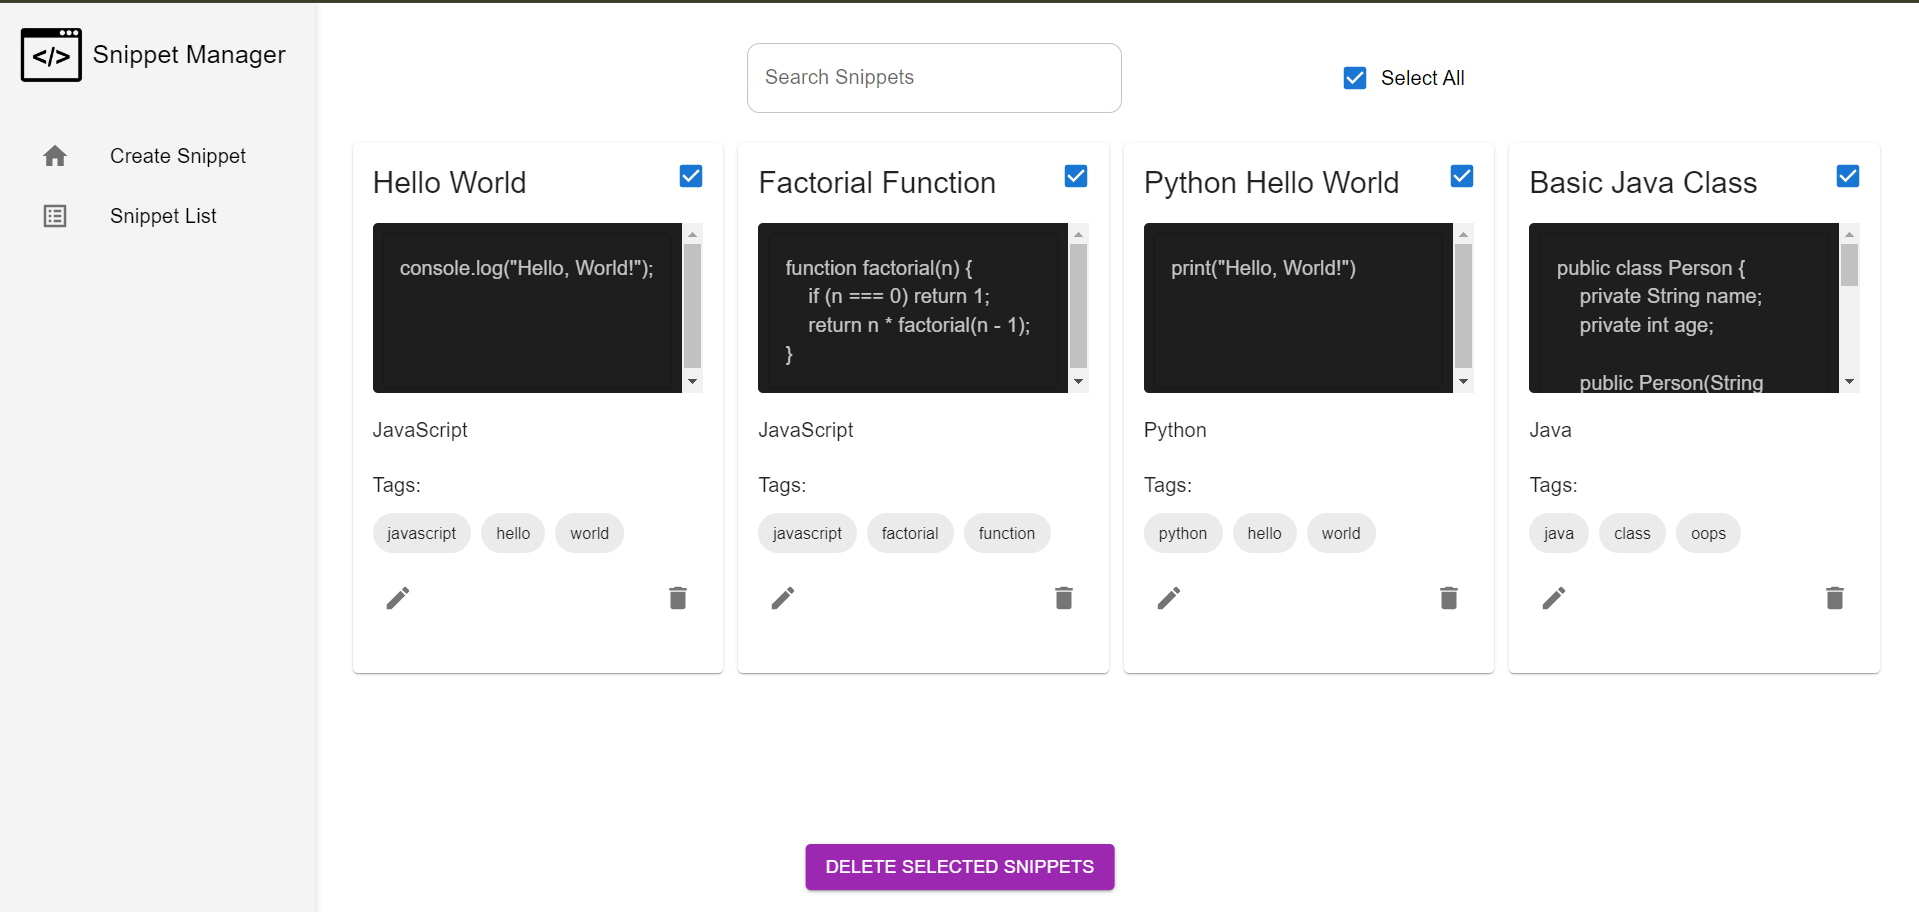
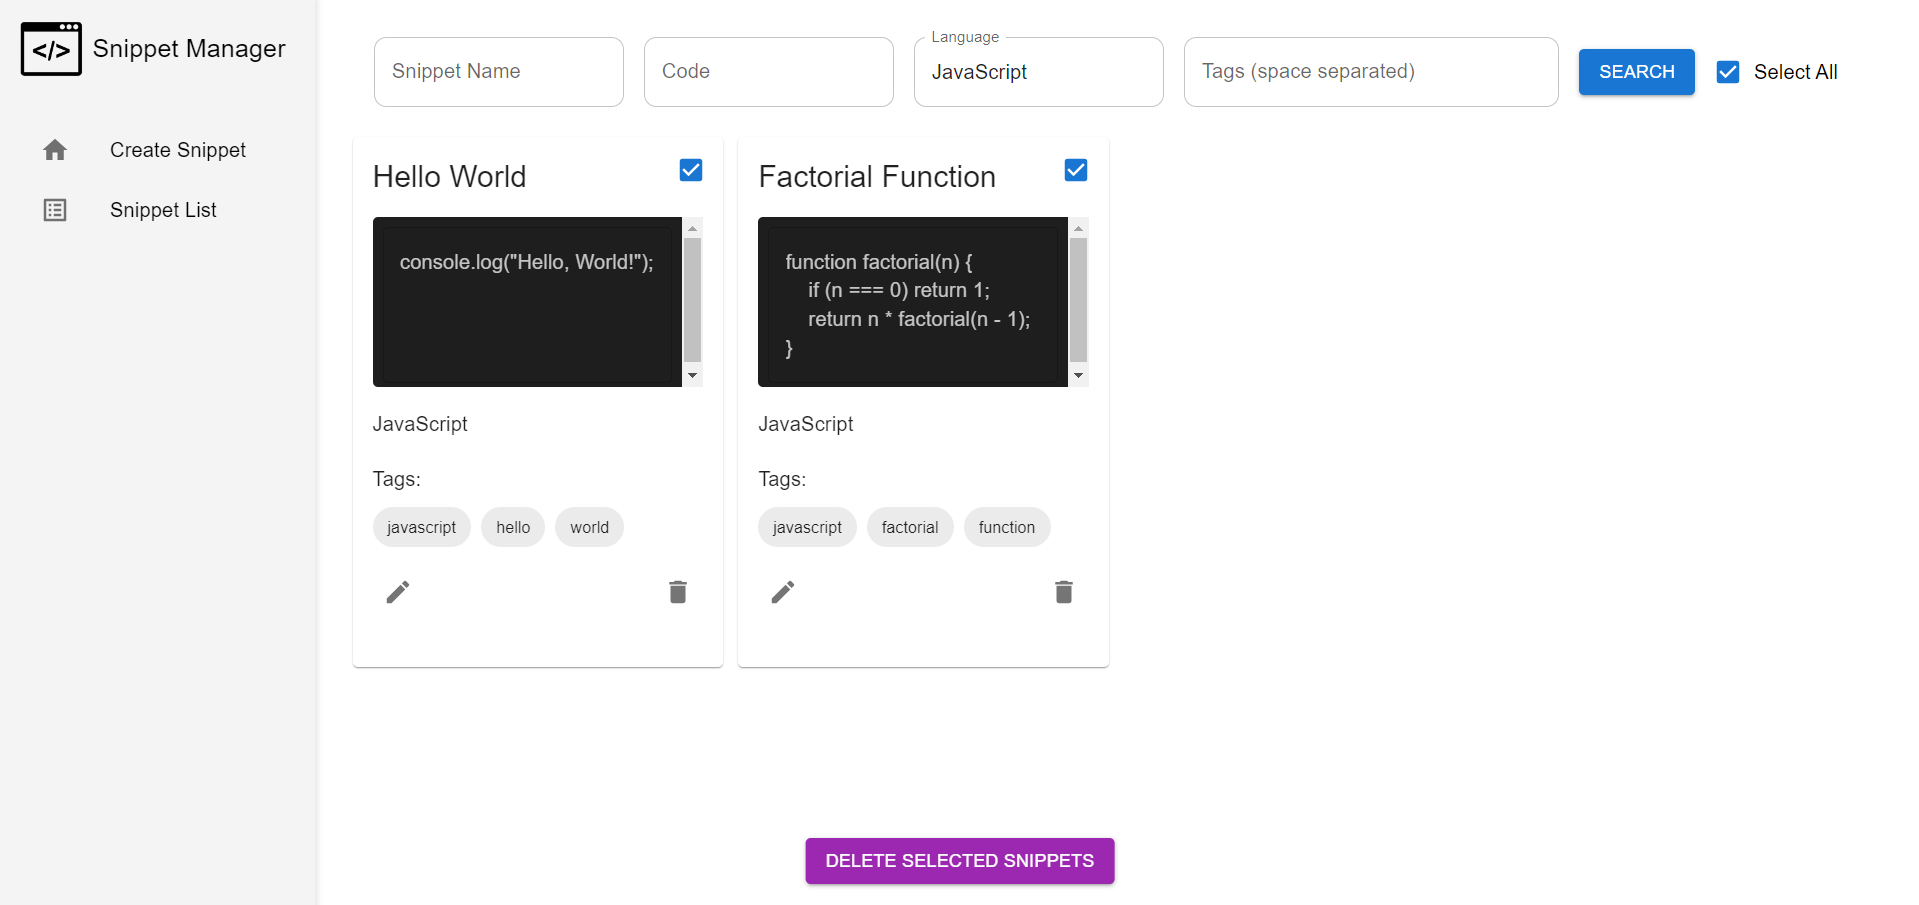
search functionality improved

diff --git a/frontend/src/components/SnippetList.tsx b/frontend/src/components/SnippetList.tsx
@@ -12,6 +12,12 @@ const SnippetList = () => {
     const editSnippet = useSnippetStore(state => state.editSnippet);
     const deleteSnippet = useSnippetStore(state => state.deleteSnippet);
 
+    //search snippets
+    const [searchSnippetName, setSearchSnippetName] = useState('');
+    const [searchCode, setSearchCode] = useState('');
+    const [searchLanguage, setSearchLanguage] = useState('');
+    const [searchTags, setSearchTags] = useState('');
+
     const [editingId, setEditingId] = useState<string | null>(null);
     const [updatedSnippet, setUpdatedSnippet] = useState({
         name: '',
@@ -84,42 +90,81 @@ const SnippetList = () => {
         }
     };
 
-    const handleSearch = async (event: React.ChangeEvent<HTMLInputElement>) => {
-        const query = event.target.value;
-        setSearchQuery(query);
+    const handleSearch = async () => {
+        let query = '';
 
-        if (query) {
-            const response = await fetch(`http://localhost:5000/api/snippets?snippetName=${query}`);
-            if (response.ok) {
-                const data = await response.json();
-                useSnippetStore.getState().setSnippets(data);
-            } else {
-                console.error("Error fetching snippets");
-            }
+        // Add snippetName to the query if provided
+        if (searchSnippetName) query += `snippetName=${searchSnippetName}&`;
+        if (searchCode) query += `code=${searchCode}&`;
+        if (searchLanguage) query += `language=${searchLanguage}&`;
+        if (searchTags) query += `tags=${searchTags.replace(/\s+/g, '+')}&`; // Replace spaces in tags with +
+
+        // Fetch filtered snippets
+        const response = await fetch(`http://localhost:5000/api/snippets?${query}`);
+        if (response.ok) {
+            const data = await response.json();
+            useSnippetStore.getState().setSnippets(data);
         } else {
-            fetchSnippets();
+            console.error("Error fetching snippets");
         }
     };
 
     return (
         <Box margin={2}>
-            {/* Search Bar with Select All Checkbox */}
-            <Grid container spacing={20} justifyContent="center" alignItems="center" sx={{ marginBottom: 3 }}>
+            {/* Search Filters */}
+            <Grid container spacing={2} justifyContent="center" alignItems="center" sx={{ marginBottom: 3 }}>
                 <Grid item>
                     <TextField
-                        label="Search Snippets"
-                        value={searchQuery}
-                        onChange={handleSearch}
+                        label="Snippet Name"
+                        value={searchSnippetName}
+                        onChange={(e) => setSearchSnippetName(e.target.value)}
                         variant="outlined"
-                        sx={{ width: '300px' }}
+                        sx={{ width: '200px' }}
                         InputProps={{
-                            style: {
-                                borderRadius: '10px',
-                            },
+                            style: { borderRadius: '10px' },
                         }}
                     />
                 </Grid>
-                <Grid item sx={{ marginLeft: 2 }}>
+                <Grid item>
+                    <TextField
+                        label="Code"
+                        value={searchCode}
+                        onChange={(e) => setSearchCode(e.target.value)}
+                        variant="outlined"
+                        sx={{ width: '200px' }}
+                        InputProps={{
+                            style: { borderRadius: '10px' },
+                        }}
+                    />
+                </Grid>
+                <Grid item>
+                    <TextField
+                        label="Language"
+                        value={searchLanguage}
+                        onChange={(e) => setSearchLanguage(e.target.value)}
+                        variant="outlined"
+                        sx={{ width: '200px' }}
+                        InputProps={{
+                            style: { borderRadius: '10px' },
+                        }}
+                    />
+                </Grid>
+                <Grid item>
+                    <TextField
+                        label="Tags (space separated)"
+                        value={searchTags}
+                        onChange={(e) => setSearchTags(e.target.value)}
+                        variant="outlined"
+                        sx={{ width: '300px' }}
+                        InputProps={{
+                            style: { borderRadius: '10px' },
+                        }}
+                    />
+                </Grid>
+                <Grid item>
+                    <Button variant="contained" color="primary" onClick={handleSearch}>Search</Button>
+                </Grid>
+                <Grid item>
                     <FormControlLabel
                         control={
                             <Checkbox
